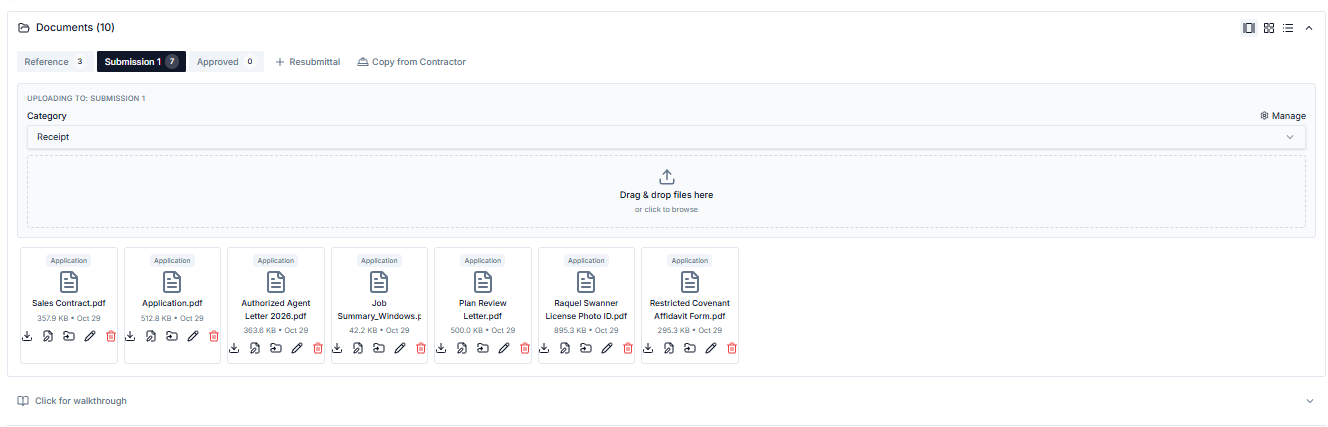
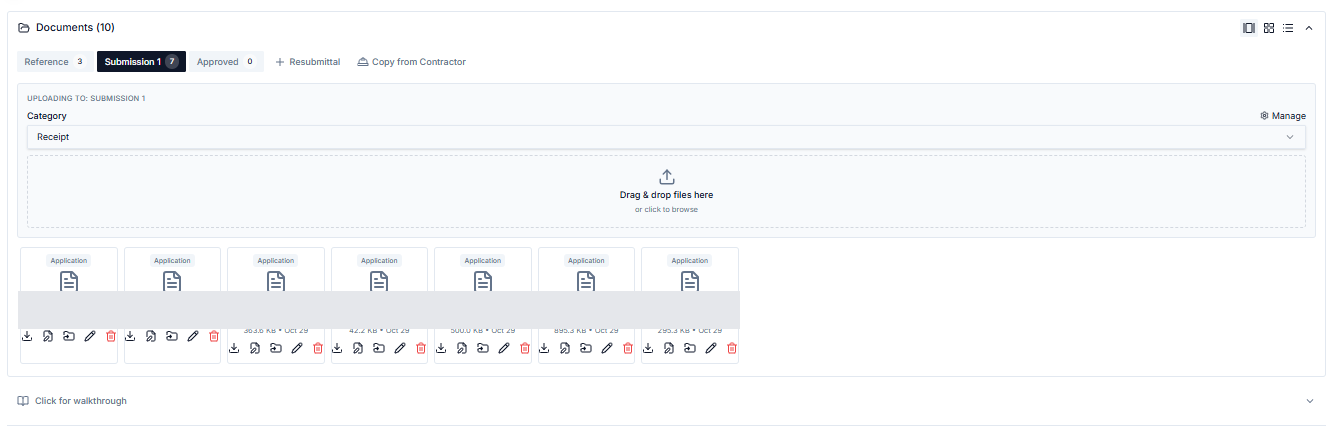
Update marketing content and refresh permit manager site screenshots
Replit-Commit-Author: Agent

Changed region(s): [[0.0, 0.6698, 0.5557, 0.7916]]

diff --git a/artifacts/permits-manager-site/src/components/paperwork-time-savers.tsx b/artifacts/permits-manager-site/src/components/paperwork-time-savers.tsx
@@ -51,14 +51,14 @@ export function PaperworkTimeSavers({ ctaHref, ctaLabel, id = 'paperwork' }: { c
         <Reveal>
           <figure className="mt-8 overflow-hidden rounded-lg border border-border bg-card">
             <a
-              href={`${import.meta.env.BASE_URL}product-screenshots/documents-attached-files.png`}
+              href={`${import.meta.env.BASE_URL}product-screenshots/documents-attached-files-redacted.png`}
               target="_blank"
               rel="noopener noreferrer"
               className="block bg-white focus-visible:outline focus-visible:outline-2 focus-visible:outline-primary focus-visible:-outline-offset-2"
               aria-label="View the attached project files screenshot at full size (opens in a new tab)"
             >
               <img
-                src={`${import.meta.env.BASE_URL}product-screenshots/documents-attached-files.png`}
+                src={`${import.meta.env.BASE_URL}product-screenshots/documents-attached-files-redacted.png`}
                 alt="Permits Manager Documents section with submission tabs, a file upload area, and attached project PDF files."
                 width={1328}
                 height={427}

diff --git a/artifacts/permits-manager-site/src/components/product-ui.tsx b/artifacts/permits-manager-site/src/components/product-ui.tsx
@@ -50,7 +50,7 @@ export function InspectionsMock(props: ScreenshotProps) {
 }
 
 export function DocumentFilesScreenshot(props: ScreenshotProps) {
-  return <ProductScreenshot name="documents" focus="documents-attached-files.png" full="documents-attached-files.png"
+  return <ProductScreenshot name="documents" focus="documents-attached-files-redacted.png" full="documents-attached-files-redacted.png"
     caption="Documents: attached job files grouped by submission." privacyNote={false}
     alt="Documents section with submission tabs, an upload area and attached project PDF files." {...props} />;
 }

diff --git a/.agents/memory/marketing-content.md b/.agents/memory/marketing-content.md
@@ -20,7 +20,7 @@ The owner supplied the Documents attached-files view for public use because open
 
 **Why:** The owner wants to show real document functionality without revealing client details.
 
-**How to apply:** Label this image as the Documents or attached-files view, not the annotation editor. Do not request an unredacted client PDF to illustrate annotations.
+**How to apply:** Label this image as the Documents or attached-files view, not the annotation editor. Permanently redact document filenames in every public copy, including enlarged images and legacy asset URLs: the owner subsequently identified a contractor name embedded in a filename. Do not request an unredacted client PDF to illustrate annotations.
 
 The owner chose to leave the current Privacy and Terms pages unchanged and said, “I will update privacy/terms later.”
 
